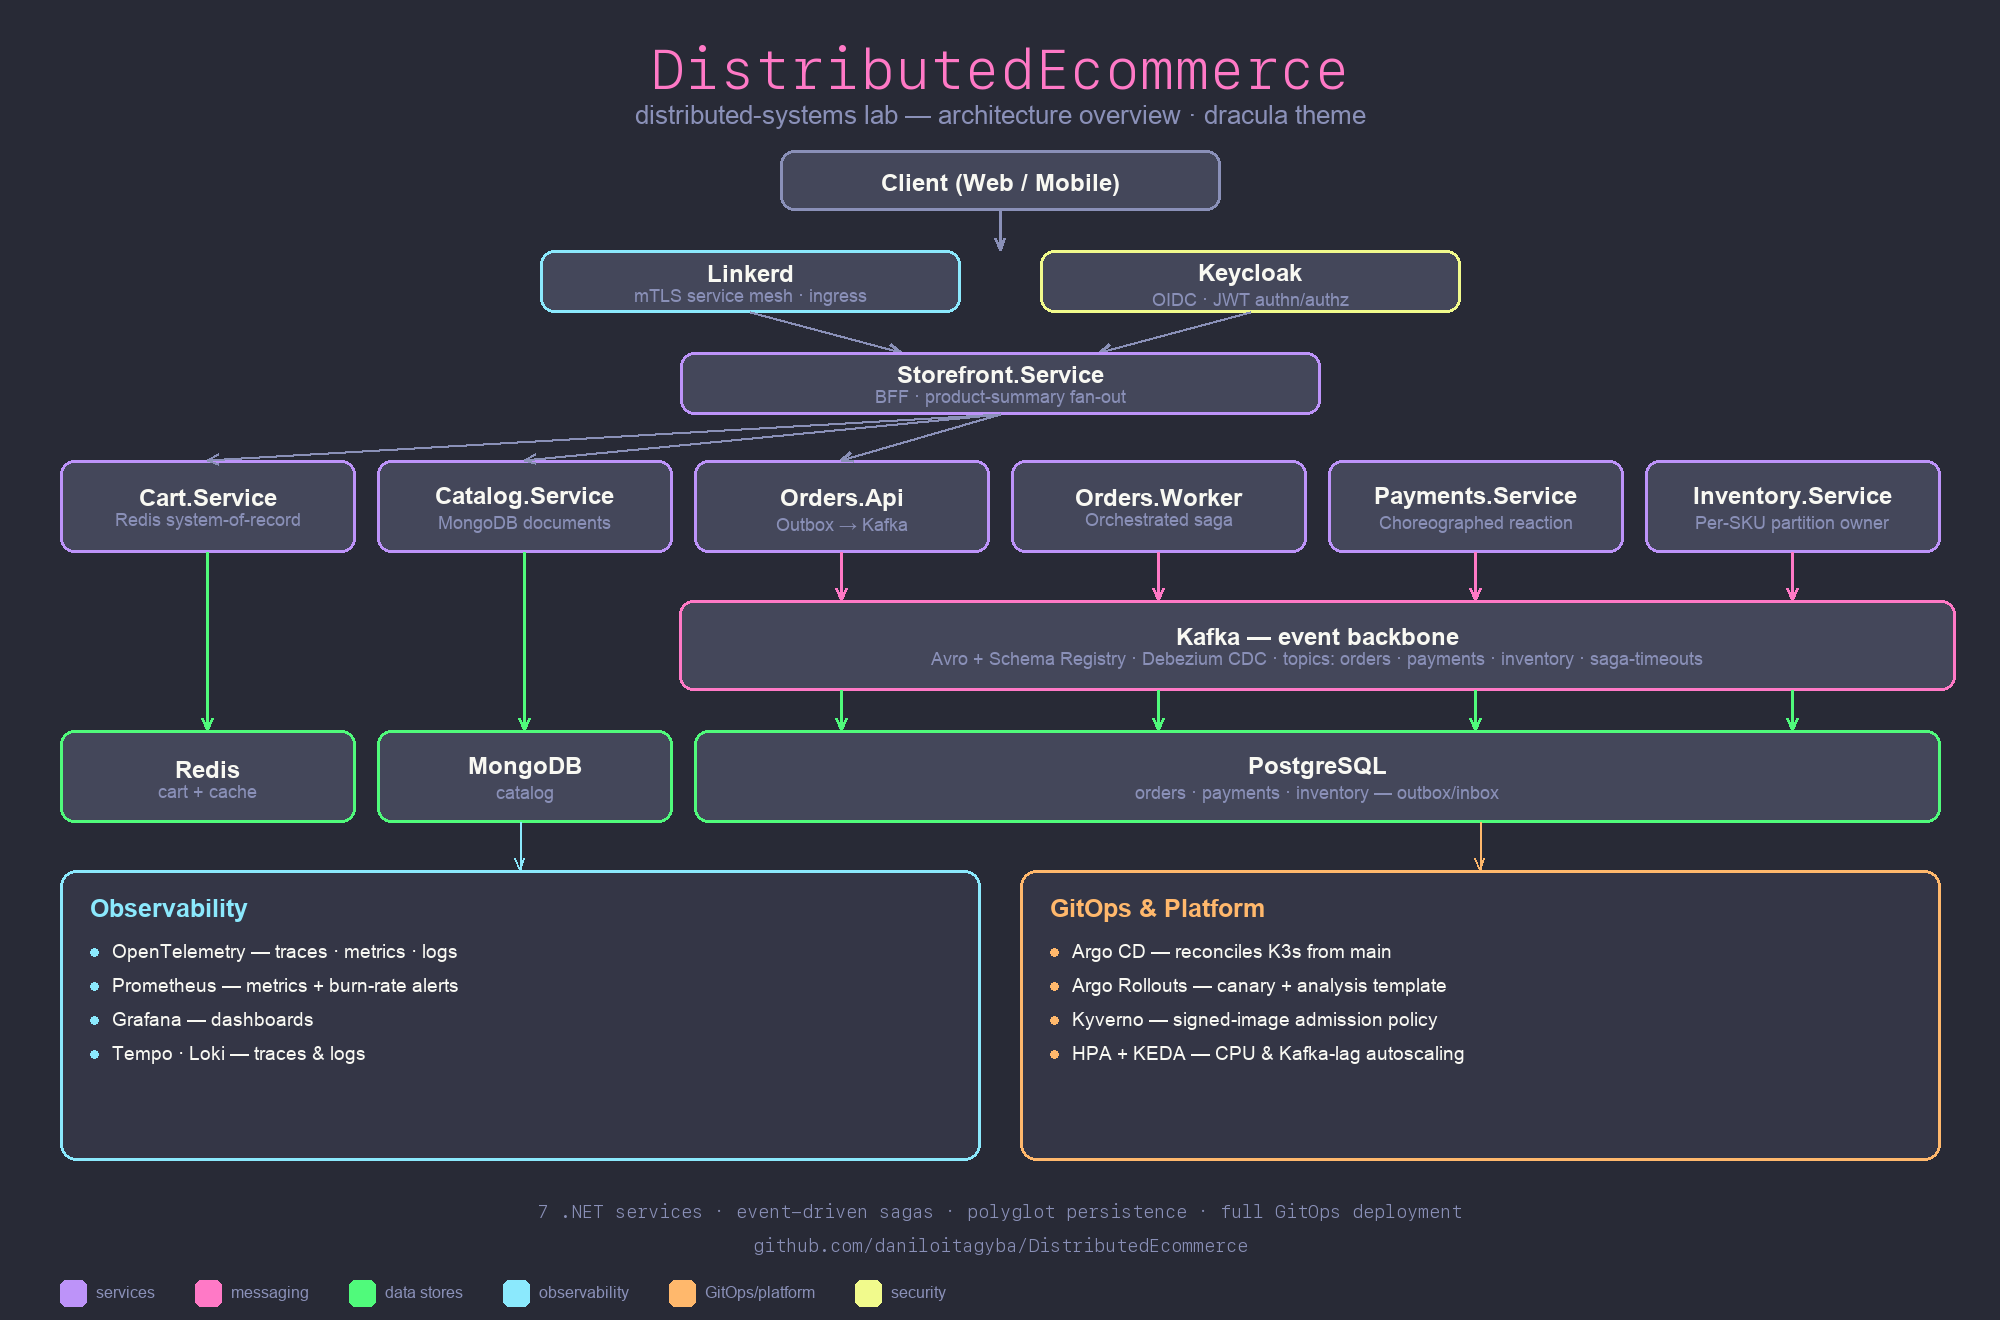
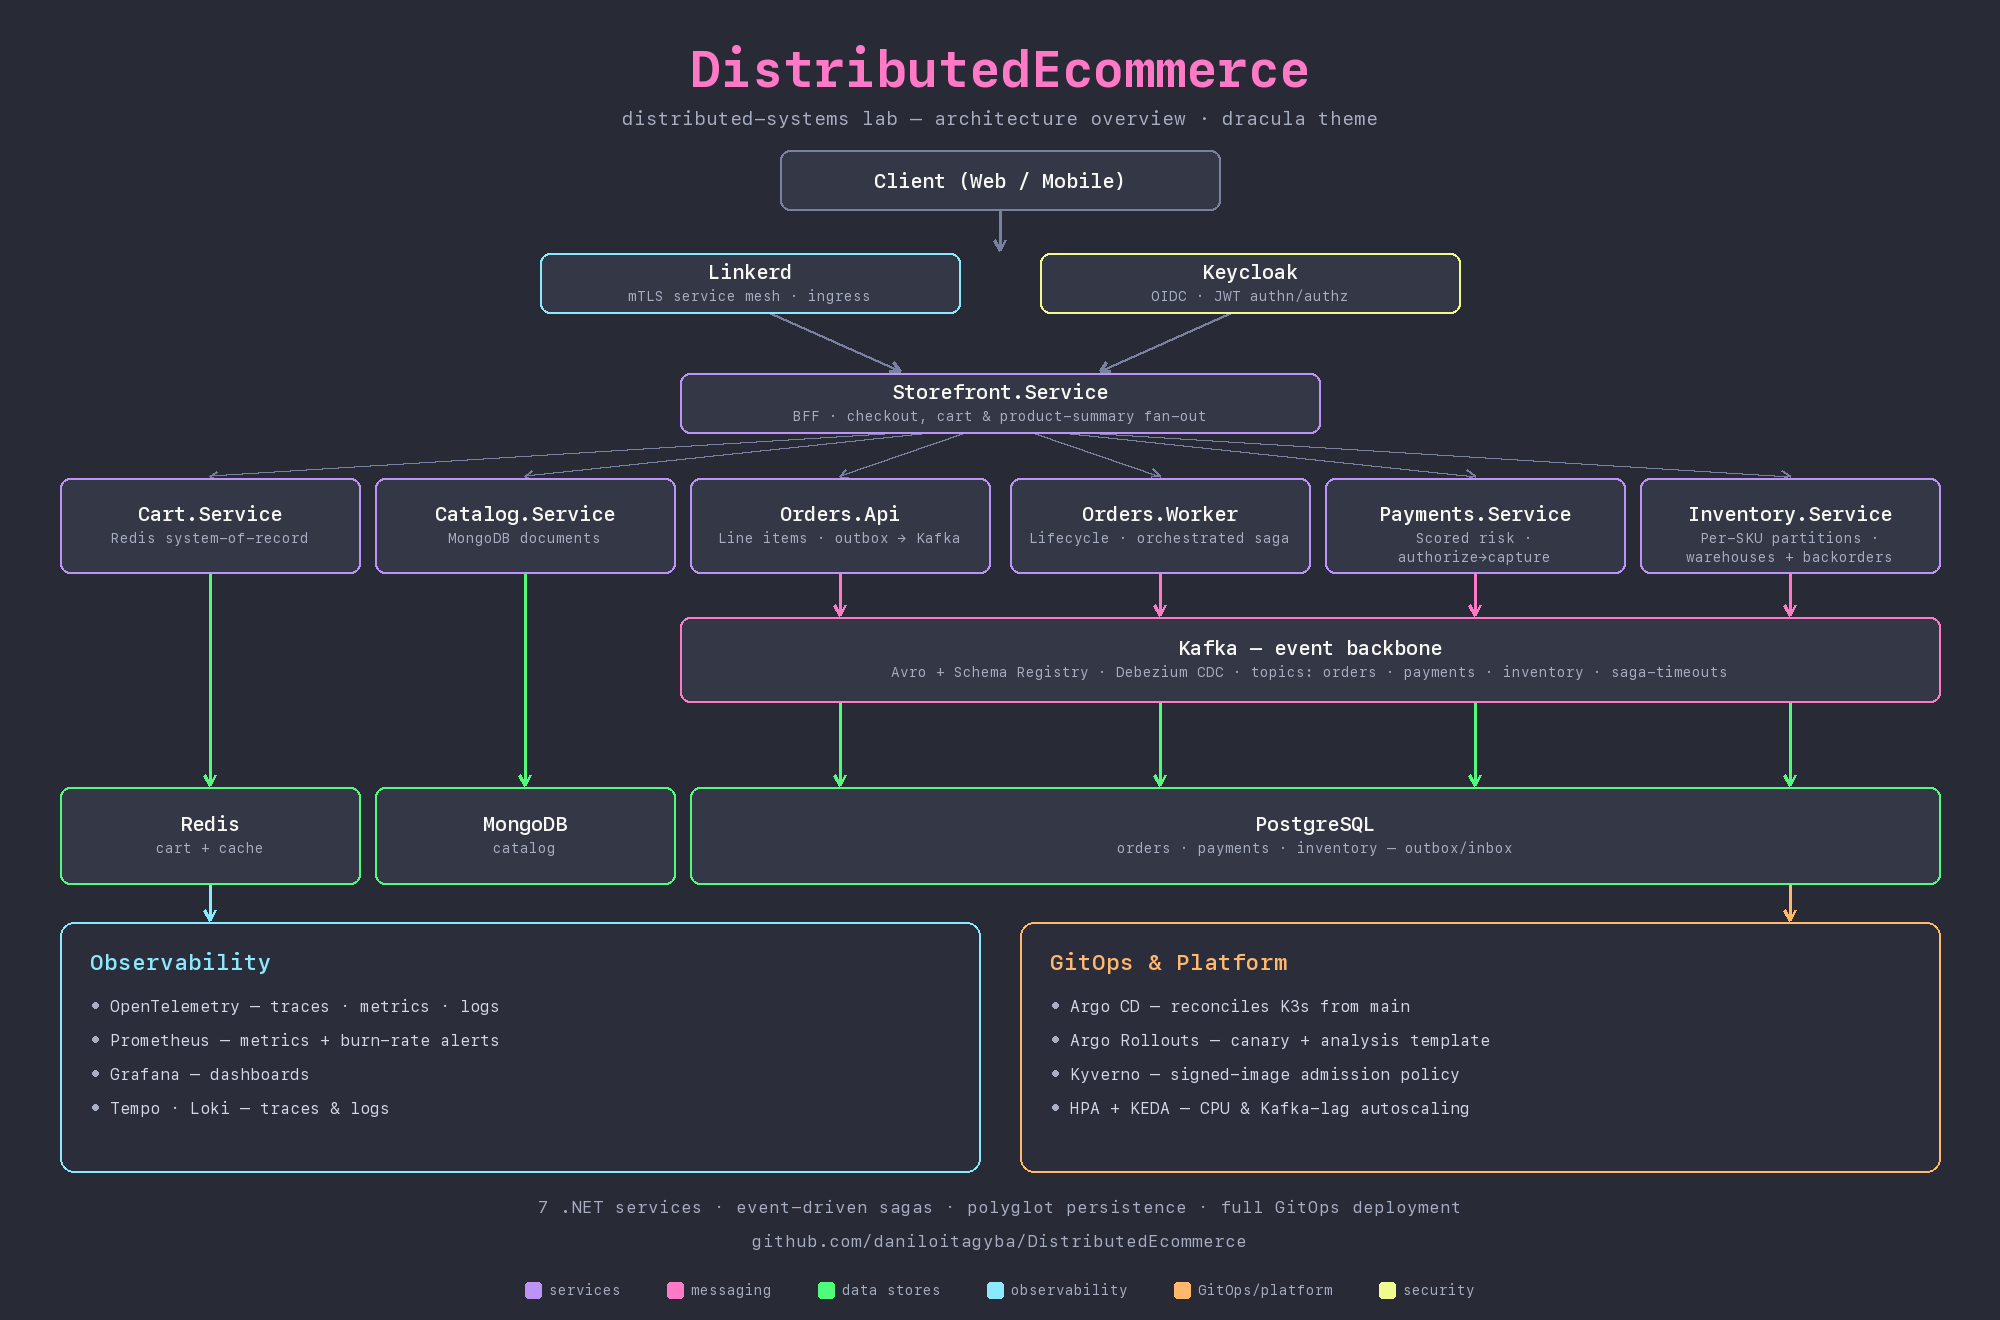
docs: refresh architecture diagram and README for M66-74
Payments.Service and Inventory.Service subtitles now reflect scored
risk/authorize-capture and multi-warehouse/backorders respectively.
The domain feature bullet now links through the full M66-74 sequence
instead of only the first entry.

Claude-Session: https://claude.ai/code/session_01Ti6cCMNmhoEnVKVDL55e1a

diff --git a/README.md b/README.md
@@ -10,7 +10,7 @@ Seven .NET services (`Orders.Api`/`Orders.Worker`, `Payments.Service`, `Catalog.
 
 ## What it demonstrates
 
-- **A real e-commerce domain** — orders with line items priced server-side against the live catalog (the client never states a price), promotions composed by a rules engine (NRules), cent-exact discount allocation across lines (NodaMoney), coupons with validity windows and redemption limits enforced atomically under concurrent checkout, payment decisions scored from customer history rather than a fixed amount threshold, a real authorize-then-capture money flow where the method (Card vs Pix) decides whether a hold is placed at all, an order lifecycle driven by an explicit transition table through picking, shipping and delivery, partial returns whose refunds come out of what was actually charged rather than the list price, loyalty tiers derived from lifetime spend that stack with the other promotions, stock spread across warehouses with a property-tested allocation policy that splits an order only when no single building can fill it, three payment methods whose differences the domain actually respects - a card hold, an instant Pix, and a boleto that waits unpaid - and orders that wait on a backorder queue instead of cancelling outright when the network is momentarily short, released in strict arrival order as restocks land. See [`docs/domain/milestone-66-line-items-pricing-and-risk.md`](docs/domain/milestone-66-line-items-pricing-and-risk.md).
+- **A real e-commerce domain** — orders with line items priced server-side against the live catalog (the client never states a price), promotions composed by a rules engine (NRules), cent-exact discount allocation across lines (NodaMoney), coupons with validity windows and redemption limits enforced atomically under concurrent checkout, payment decisions scored from customer history rather than a fixed amount threshold, a real authorize-then-capture money flow where the method (Card vs Pix) decides whether a hold is placed at all, an order lifecycle driven by an explicit transition table through picking, shipping and delivery, partial returns whose refunds come out of what was actually charged rather than the list price, loyalty tiers derived from lifetime spend that stack with the other promotions, stock spread across warehouses with a property-tested allocation policy that splits an order only when no single building can fill it, three payment methods whose differences the domain actually respects - a card hold, an instant Pix, and a boleto that waits unpaid - and orders that wait on a backorder queue instead of cancelling outright when the network is momentarily short, released in strict arrival order as restocks land. See the full progression from [`docs/domain/milestone-66-line-items-pricing-and-risk.md`](docs/domain/milestone-66-line-items-pricing-and-risk.md) through [`docs/domain/milestone-74-backorders.md`](docs/domain/milestone-74-backorders.md).
 - **Delivery guarantees** — transactional Outbox + Inbox for idempotent, at-least-once Kafka processing; a durable event log.
 - **Sagas** — both choreographed (`Payments.Service` reacting autonomously) and orchestrated (an explicit 4-step saga — reserve inventory, decide payment, commit or *compensate* by releasing the reservation) side by side, for comparison.
 - **Polyglot persistence** — PostgreSQL for transactional state, MongoDB for heterogeneous catalog documents, Redis as an actual system of record for carts (not just a cache).
